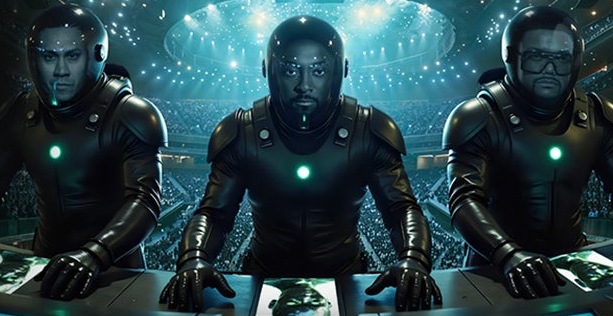
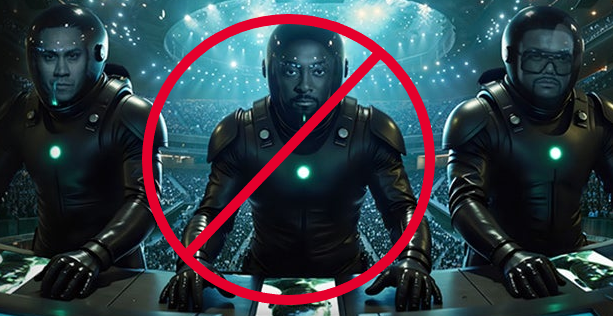
Cancellation of events

Changed region(s): [[0.217, 0.0285, 0.7129, 0.9684]]

diff --git a/src/app/home/home.component.html b/src/app/home/home.component.html
@@ -382,9 +382,7 @@
                                 <div>255 Sands Ave</div>
                                 <div>Las Vegas, NV 89169</div>
                             </div>
-                            <div>The Sphere Experience in Las Vegas is a state-of-the-art entertainment venue that opened in September 2023. It features a
-                                360-foot-high, 516-foot-wide spherical structure with a 16K resolution wraparound LED screen inside. Visitors can enjoy live
-                                music performances, films, and other immersive experiences that engage all the senses.
+                            <div class="text-orange-200">Event cancelled. TBD on next event to replace this one.
                             </div>
                             <div class="mt-3">
                                 <a href="https://www.thesphere.com/" target="_blank" class="underline decoration-solid text-violet-300">Click for more
@@ -437,16 +435,10 @@
                             <img class="w-full" src="/assets/images/blackEyedPeas.png" />
                             <div class="font-bold mt-4">Black Eyed Peas</div>
                             <div class="my-3 italic">
-                                <div>Time: 8pm</div>
-                                <div>Our tickets: Sec 205, Row Q, Seats 7 - 8</div>
-                                <div class="mb-2">Advanced ticket purchase recommended</div>
-                                <div>Planet Hollywood Las Vegas Resort & Casino</div>
-                                <div>The Las Vegas Residency</div>
-                                <div>3667 Las Vegas Blvd S</div>
-                                <div>Las Vegas, NV 89109</div>
+
                             </div>
-                            <div>
-                                Two hour music concert.
+                            <div class="text-red-800">
+                                Black Eyed Peas has cancelled this event. TBD on next event.
                             </div>
                             <div class="mt-3">
                                 <a href="https://www.ticketmaster.com/bepvegas?CAMEFROM=CFC_CAESARSENT_WEB_CCOM_BLACKEYEDPEAS" target="_blank"
